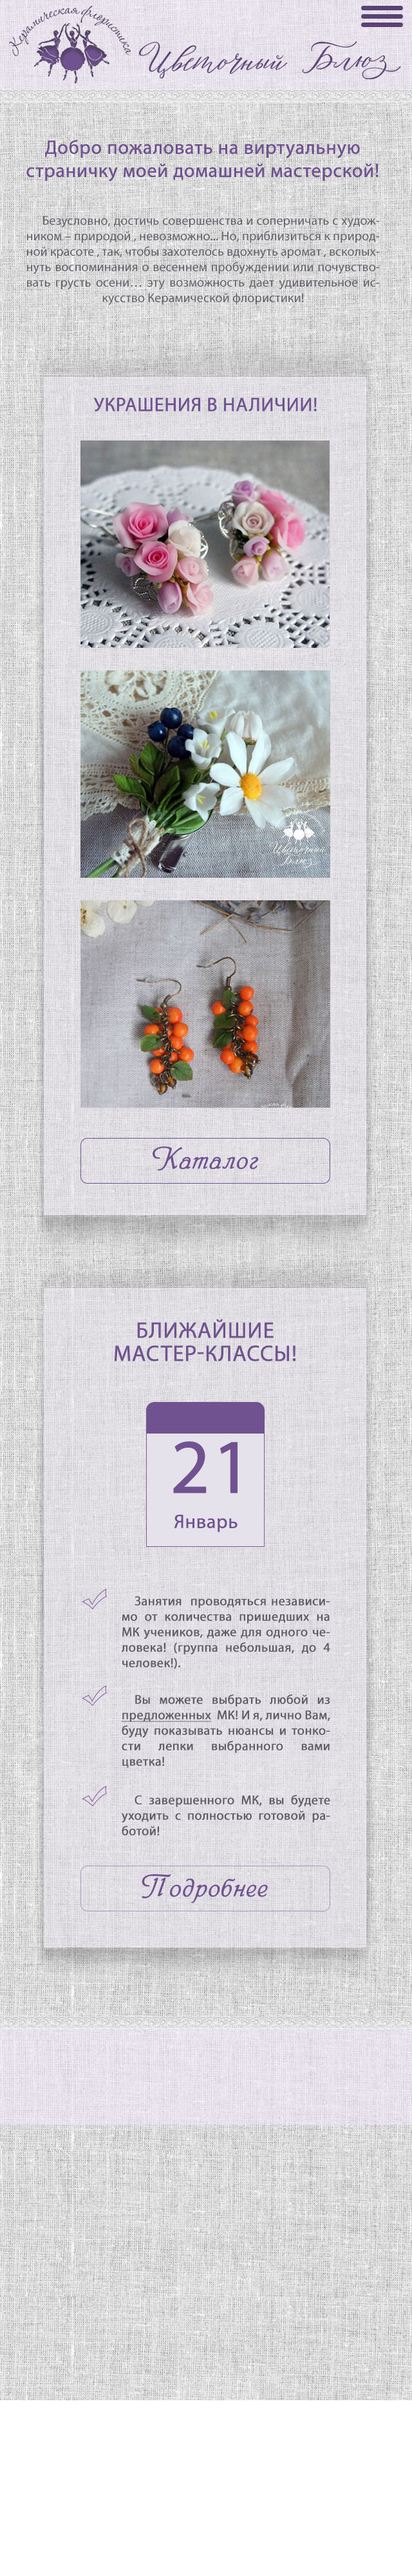
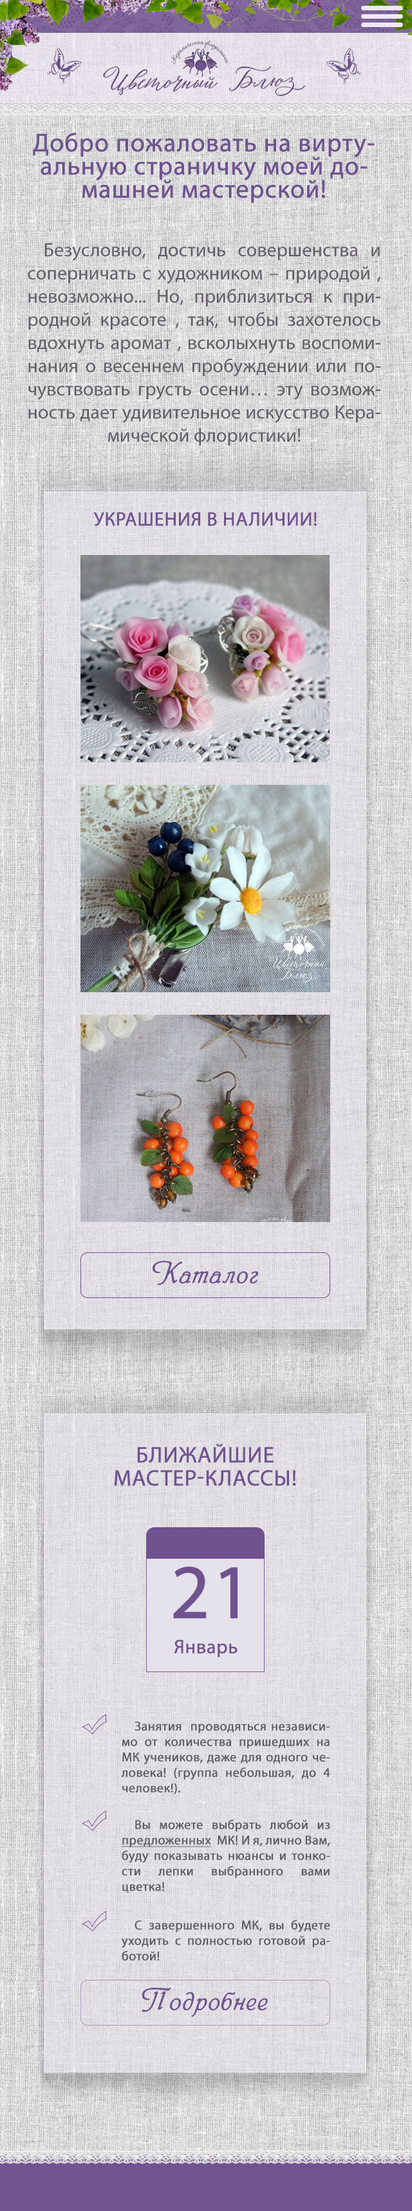
no message

diff --git a/public/styles/index.css b/public/styles/index.css
@@ -8,8 +8,8 @@ nav{float:left;margin-top:19%;margin-left:3%;outline:0 solid green;width:15%}.na
 .main-introduction{outline:3px solid red;font-family:Arial,Helvetica,sans-serif;font-size:1.8vw;color:#615c65;padding-bottom:1.5%;text-align:justify;text-indent:2%}
 .center{margin:0;text-align:center}.stock{outline:0 solid yellow;background-image:url("../images/fon2.png");background-repeat:no-repeat;background-size:cover;padding-top:5%;padding-bottom:6%}
 .stock-title{font-family:Arial,Helvetica,sans-serif;font-size:2vw;color:#705290}.img{width:100%;text-align:center;margin-top:3%}
-.stock-img{width:100%;margin-right:1%}.stock-img:last-child{margin-right:0}.button{margin-top:5%}
-.button-img{width:29%}.news{outline:0 solid green;background-image:url("../images/fon2.png");background-repeat:no-repeat;background-size:cover;padding-top:5%;margin-top:5%;padding-bottom:3%}
+.stock-img:last-child{margin-right:0}.button{margin-top:5%}.button-img{width:29%}
+.news{outline:0 solid green;background-image:url("../images/fon2.png");background-repeat:no-repeat;background-size:cover;padding-top:5%;margin-top:5%;padding-bottom:3%}
 .news-content{outline:0 solid orange}.news-calendar{outline:0 solid red}.news-calendar-img{float:left;width:14%;margin:3% 0 15% 6%}
 .news-details{text-align:left;outline:0 solid blue;font-family:Arial,Helvetica,sans-serif;font-size:1.6vw;color:#605c65;margin-left:24.5%;margin-right:4%}
 .news-details-marker{margin-top:2%;display:inline;width:5%}.clear{clear:both}.news-button{margin-bottom:2%}
@@ -17,12 +17,15 @@ footer{outline:0 solid magenta;margin-top:17%}.footer-content{outline:0 solid bl
 .footer-title{font-size:1.3vw;font-weight:bolder;margin:0;margin-bottom:8%}.footer-text{font-size:1vw;margin:0;margin-bottom:1%}
 .navbar-button-about{margin-top:-6%}.navbar-button-mk{margin-top:5%}.navbar-button-contacts{margin-top:5%}
 .navbar-butterfly{width:16%;margin-top:-50%;margin-left:-4%}@media(max-width:640px){body{background-image:url("../images/fon640.jpg");background-repeat:no-repeat;background-size:cover}
-nav{display:none}.stock{display:none}.news{display:none}footer{display:none}main{width:100%;text-align:center;box-sizing:border-box;margin:20% 0 0 0;padding:0 5% 0 5%}
-.header-burgerbutton img{margin:3% 3% 0 0;float:right;width:10%}.clear{clear:both}
-.title{outline:2px solid red}.main-title{margin:0;font-size:4vw}.main-introducion{margin:0;font-size:3vw}
-}@media(min-width:641px){header{display:none}}.carousel-fl{width:93%;margin-left:5%}
-.flickity-enabled{position:relative}.flickity-enabled:focus{outline:0}.flickity-viewport{overflow:hidden;position:relative;height:100%}
-.flickity-slider{position:absolute;width:100%;height:100%}.flickity-enabled.is-draggable{-webkit-tap-highlight-color:transparent;tap-highlight-color:transparent;-webkit-user-select:none;-moz-user-select:none;-ms-user-select:none;user-select:none}
+nav{display:none}.stock{background-image:url("../images/fon2-640.png");margin-top:-8%;padding-top:21%}
+.stock-title{font-size:4vw;font-weight:700}.img{display:none}.news{display:none}footer{display:none}
+main{width:100%;text-align:center;box-sizing:border-box;margin:25% 0 0 0;padding:0 8% 0 8%}
+.header-burgerbutton img{margin:1.5% 2% 0 0;float:right;width:10%}.clear{clear:both}
+.title{outline:2px solid red}.main-title{margin:0;font-size:5vw;margin-bottom:15%}
+.main-introduction{margin:0;font-size:4vw;text-indent:5%}}@media(min-width:641px){header{display:none}
+}.carousel-fl{width:93%;margin-left:5%}.flickity-enabled{position:relative}.flickity-enabled:focus{outline:0}
+.flickity-viewport{overflow:hidden;position:relative;height:100%}.flickity-slider{position:absolute;width:100%;height:100%}
+.flickity-enabled.is-draggable{-webkit-tap-highlight-color:transparent;tap-highlight-color:transparent;-webkit-user-select:none;-moz-user-select:none;-ms-user-select:none;user-select:none}
 .flickity-enabled.is-draggable .flickity-viewport{cursor:move;cursor:-webkit-grab;cursor:grab}
 .flickity-enabled.is-draggable .flickity-viewport.is-pointer-down{cursor:-webkit-grabbing;cursor:grabbing}
 .flickity-prev-next-button{position:absolute;top:50%;width:44px;height:44px;border:0;border-radius:50%;background:white;background:hsla(0,0%,100%,0.75);cursor:pointer;-webkit-transform:translateY(-50%);transform:translateY(-50%)}

diff --git a/src/js/index.jsx b/src/js/index.jsx
@@ -7,12 +7,12 @@ let Index = React.createClass({
 <div>
         <div className="title">
             <h1 className="main-title">Добро пожаловать на виртуальную страничку моей домашней мастерской!</h1>
-            <p className="main-introduction" >Безусловно, достичь совершенства и соперничать с художником – природой, невозможно... Но, приблизиться к природной красоте, так, чтобы захотелось вдохнуть аромат, всколыхнуть воспоминания о весеннем пробуждении или почувствовать грусть осени... эту возможность дает удивительное искусство <p className="center">Керамической флористики!</p></p>
+            <p className="main-introduction" >Безусловно, достичь совершенства и соперничать с художником – природой, невозможно... Но, приблизиться к природной красоте, так, чтобы захотелось вдохнуть аромат, всколыхнуть воспоминания о весеннем пробуждении или почувствовать грусть осени... эту возможность дает удивительное искусство Керамической флористики!</p>
         </div>
         <div className="stock">
             <h1 className="stock-title">УКРАШЕНИЯ В НАЛИЧИИ:</h1>
             <div className="img">
-                <div className="carousel-fl" data-flickity='{ "autoPlay": 1500 }'>
+                <div className="carousel-fl" data-flickity='{ "cellAlign": "left", "groupCells": 1, "autoPlay": false, "pauseAutoPlayOnHover": false }'>
                       <div className="carousel-cell"><img className="stock-img" src="images/1.jpg" /></div>
                       <div className="carousel-cell"><img className="stock-img" src="images/2.jpg" /></div>
                       <div className="carousel-cell"><img className="stock-img" src="images/3.jpg" /></div>
@@ -20,10 +20,6 @@ let Index = React.createClass({
                       <div className="carousel-cell"><img className="stock-img" src="images/2.jpg" /></div>
                       <div className="carousel-cell"><img className="stock-img" src="images/3.jpg" /></div>
                 </div>
-
-                   
-                   
-                    
             </div>
             <div className="button">
                 <img className="button-img" src="images/button.png" />

diff --git a/public/js/build.js b/public/js/build.js
@@ -26667,12 +26667,7 @@
 	                _react2['default'].createElement(
 	                    'p',
 	                    { className: 'main-introduction' },
-	                    'Безусловно, достичь совершенства и соперничать с художником – природой, невозможно... Но, приблизиться к природной красоте, так, чтобы захотелось вдохнуть аромат, всколыхнуть воспоминания о весеннем пробуждении или почувствовать грусть осени... эту возможность дает удивительное искусство ',
-	                    _react2['default'].createElement(
-	                        'p',
-	                        { className: 'center' },
-	                        'Керамической флористики!'
-	                    )
+	                    'Безусловно, достичь совершенства и соперничать с художником – природой, невозможно... Но, приблизиться к природной красоте, так, чтобы захотелось вдохнуть аромат, всколыхнуть воспоминания о весеннем пробуждении или почувствовать грусть осени... эту возможность дает удивительное искусство Керамической флористики!'
 	                )
 	            ),
 	            _react2['default'].createElement(
@@ -26688,7 +26683,7 @@
 	                    { className: 'img' },
 	                    _react2['default'].createElement(
 	                        'div',
-	                        { className: 'carousel-fl', 'data-flickity': '{ "autoPlay": 1500 }' },
+	                        { className: 'carousel-fl', 'data-flickity': '{ "cellAlign": "left", "groupCells": 1, "autoPlay": false, "pauseAutoPlayOnHover": false }' },
 	                        _react2['default'].createElement(
 	                            'div',
 	                            { className: 'carousel-cell' },

diff --git a/src/styles/index/3.media.css b/src/styles/index/3.media.css
@@ -9,7 +9,18 @@ nav{
     display:none;
 }
 .stock{
+    background-image: url("../images/fon2-640.png");
+    margin-top:-8%;
+    padding-top: 21%;
+
+}
+.stock-title {
+    font-size: 4vw;
+    font-weight: 700;
+}
+.img {
     display:none;
+
 }
 .news{
     display:none;
@@ -21,12 +32,12 @@ main{
     width:100%;
     text-align:center;
     box-sizing:border-box;
-    margin:20% 0 0 0;
-    padding:0 5% 0 5%;
+    margin:25% 0 0 0;
+    padding:0 8% 0 8%;
 
 }
 .header-burgerbutton img{
-    margin:3% 3% 0 0;
+    margin:1.5% 2% 0 0;
     float:right;
     width:10%;
 
@@ -39,11 +50,13 @@ main{
 }
 .main-title{
     margin:0;
-    font-size: 4vw;
+    font-size: 5vw;
+    margin-bottom: 15%;
 }
-.main-introducion{
+.main-introduction{
     margin:0;
-    font-size:3vw;
+    font-size:4vw;
+    text-indent: 5%
 }
 }
 

diff --git a/src/styles/index/2.index.css b/src/styles/index/2.index.css
@@ -80,8 +80,7 @@ nav {
   margin-top: 3%;
 }
 .stock-img {
-  width: 100%;
-  margin-right: 1%;
+ 
 }
 .stock-img:last-child {
   margin-right: 0;
